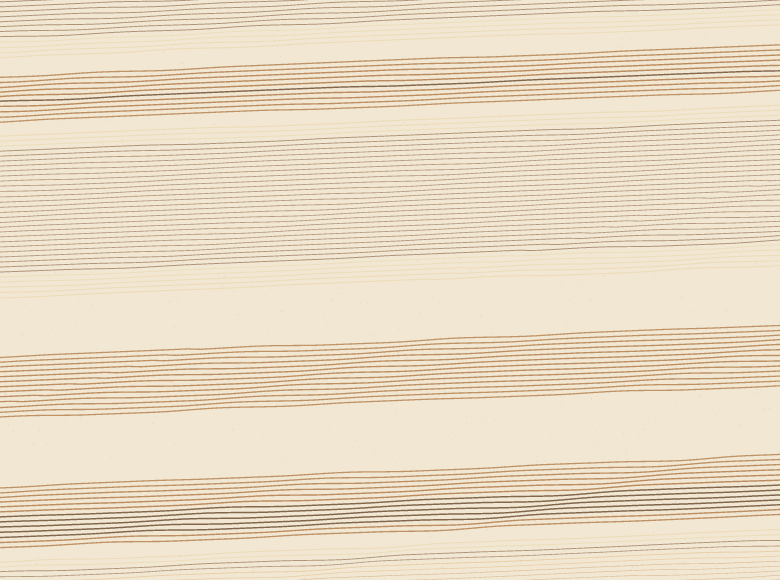
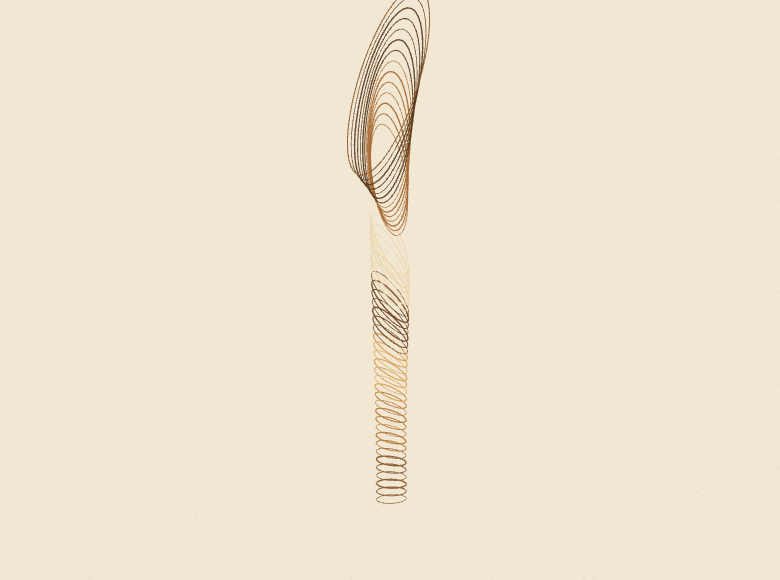
Engine v3.9.0 — contour primitive; re-render TRAN2 as a stacked-contour solid

Changed region(s): [[0.0, 0.0, 1.0, 1.0], [0.0, 0.9931, 0.0615, 1.0]]

diff --git a/generative-art-generator.html b/generative-art-generator.html
@@ -233,7 +233,7 @@ let W = canvas.width, H = canvas.height;
 // to the palette's max-contrast colour. The guard triggers ONLY in that degenerate case; every existing
 // convergence piece (gens 92, 110, 117) keeps its exact ink → renders bit-identical (verified, checksums
 // unchanged). pickInk is used ONLY by convergence, so no other character is affected.
-const ENGINE_VERSION = 'v3.8.0';
+const ENGINE_VERSION = 'v3.9.0';
 
 // mulberry32 — small deterministic PRNG. Returns a () => [0,1) function.
 function mulberry32(seed) {
@@ -1344,6 +1344,7 @@ function drawMechanical(g, pal, t) {
   if (ch === 'plotter') { drawPlotterArm(g, pal, t);    return; }
   if (ch === 'led')     { drawLedMatrix(g, pal, t);     return; }
   if (ch === 'vectors') { drawVectorField(g, pal, t);   return; }
+  if (ch === 'contour') { drawContourStack(g, pal, t);  return; }
   // default: 'gear'
   const count = Math.floor(g.gearDensity * 12) + 2;
   for (let i = 0; i < count; i++) {
@@ -1509,6 +1510,83 @@ function drawVectorField(g, pal, t) {
     ctx.lineWidth = 0.7 + (i % 3) * 0.45;
     ctx.globalAlpha = 0.9;
     ctx.beginPath(); ctx.moveTo(a[0], a[1]); ctx.lineTo(b[0], b[1]); ctx.stroke();
+  }
+  ctx.globalAlpha = 1;
+}
+
+// CONTOUR: nested / stacked closed curves — a form implied by its cross-sections. Opt-in (v3.9.0,
+// 2026-09-27; Robert Mallary's TRAN2 'Quad' stacked sections, Molnár's rotated quadrilaterals, and
+// topographic relief). N contours, each scaled by a `profile`, rotated by `contourRotStep`, and
+// translated along the stack vector (contourStackX/Y): stack vector 0 → concentric rosette / relief;
+// nonzero → an axial stacked SOLID, with `contourForeshorten` squashing each section in depth.
+// Deterministic — silhouette/rotation from genome params, organic 'loop' wobble from noise(noiseSeed);
+// no Math.random. Additive: only reached when mechanicalCharacter === 'contour'.
+function drawContourStack(g, pal, t) {
+  const N       = Math.max(3, Math.min(64, Math.round(g.contourCount ?? 28)));
+  const base    = Math.min(W, H) * clamp(g.contourBaseSize ?? 0.30, 0.05, 0.6);
+  const shape   = g.contourShape || 'ellipse';
+  const sides   = Math.max(3, Math.min(12, Math.round(g.contourSides ?? 4)));
+  const prof    = g.contourScaleProfile || 'taper';
+  const rotStep = g.contourRotStep ?? 0.06;
+  const sx      = (g.contourStackX ?? 0) * W;
+  const sy      = (g.contourStackY ?? 0) * H;
+  const fore    = clamp(g.contourForeshorten ?? 1.0, 0.05, 1.0);
+  const filled  = !!g.contourFilled;
+  const colorMode = g.contourColorMode || 'depth';
+  const cx = W / 2 - sx / 2, cy = H / 2 - sy / 2;      // centre the whole stack
+  const twist = t * (g.clockSpeed || 0) * 0.4;          // animation only — canonical still is t=0 → 0
+
+  const profile = (u) => {
+    switch (prof) {
+      case 'linear': return 1 - 0.85 * u;
+      case 'bulb':   return 0.16 + 0.90 * Math.pow(u, 2.6);
+      case 'waist':  return 0.30 + 0.70 * Math.abs(Math.sin(u * Math.PI));
+      case 'flare':  return 0.20 + 0.85 * Math.exp(-u * 3.2);
+      case 'taper':
+      default:       return 1 - 0.92 * u;
+    }
+  };
+
+  ctx.lineCap = 'round';
+  for (let i = 0; i < N; i++) {
+    const u   = N > 1 ? i / (N - 1) : 0;
+    const s   = Math.max(1.5, base * profile(u));
+    const rot = i * rotStep + twist;
+    const x   = cx + sx * u;
+    const y   = cy + sy * u;
+    const ci  = colorMode === 'cycle' ? i : Math.floor(u * pal.length);
+    ctx.strokeStyle = pal[ci % pal.length];
+    ctx.fillStyle   = pal[ci % pal.length];
+    ctx.lineWidth   = 0.7 + (i % 3) * 0.35;
+    ctx.globalAlpha = filled ? 0.5 : 0.9;
+
+    ctx.save();
+    ctx.translate(x, y);
+    ctx.rotate(rot);
+    ctx.beginPath();
+    if (shape === 'ellipse') {
+      ctx.ellipse(0, 0, s, s * fore, 0, 0, Math.PI * 2);
+    } else if (shape === 'square') {
+      ctx.rect(-s, -s * fore, 2 * s, 2 * s * fore);
+    } else if (shape === 'polygon') {
+      for (let k = 0; k <= sides; k++) {
+        const a = (k / sides) * Math.PI * 2;
+        const px = Math.cos(a) * s, py = Math.sin(a) * s * fore;
+        k ? ctx.lineTo(px, py) : ctx.moveTo(px, py);
+      }
+    } else { // 'loop' — noise-wobbled closed curve (organic relief)
+      const M = 40;
+      for (let k = 0; k <= M; k++) {
+        const a = (k / M) * Math.PI * 2;
+        const wob = 1 + 0.14 * noise.noise2D(Math.cos(a) * 1.3 + i * 0.15 + g.noiseSeed * 0.001,
+                                             Math.sin(a) * 1.3 + i * 0.15);
+        const px = Math.cos(a) * s * wob, py = Math.sin(a) * s * fore * wob;
+        k ? ctx.lineTo(px, py) : ctx.moveTo(px, py);
+      }
+    }
+    ctx.closePath();
+    filled ? ctx.fill() : ctx.stroke();
+    ctx.restore();
   }
   ctx.globalAlpha = 1;
 }
